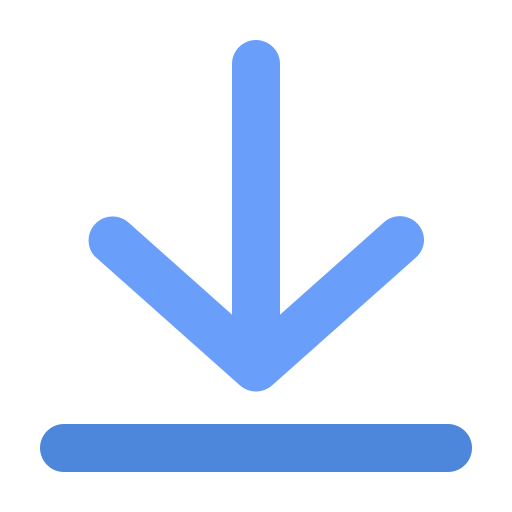
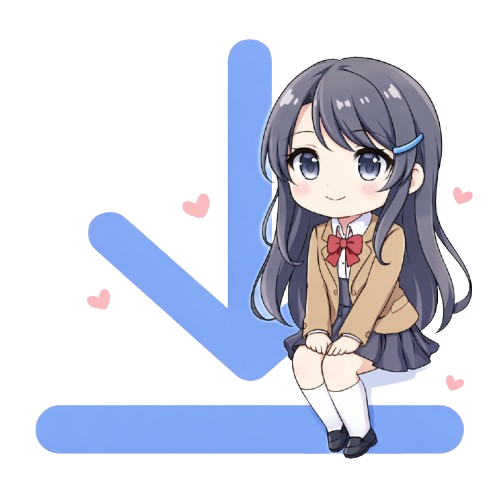
Remove branch tag from Docker build and update assets
Removed the branch tag from Docker image tagging in the GitHub workflow. Updated AniLoader logo in static assets and removed the logo from DOCKER_README.md for a cleaner README.

diff --git a/DOCKER_README.md b/DOCKER_README.md
@@ -1,7 +1,5 @@
 # AniLoader - Anime Download Manager
 
-![AniLoader Logo](https://raw.githubusercontent.com/WimWamWom/AniLoader/main/static/AniLoader.png)
-
 Automatischer Anime-Download-Manager mit Web-Interface für AniWorld.to
 
 ## 🚀 Quick Start
